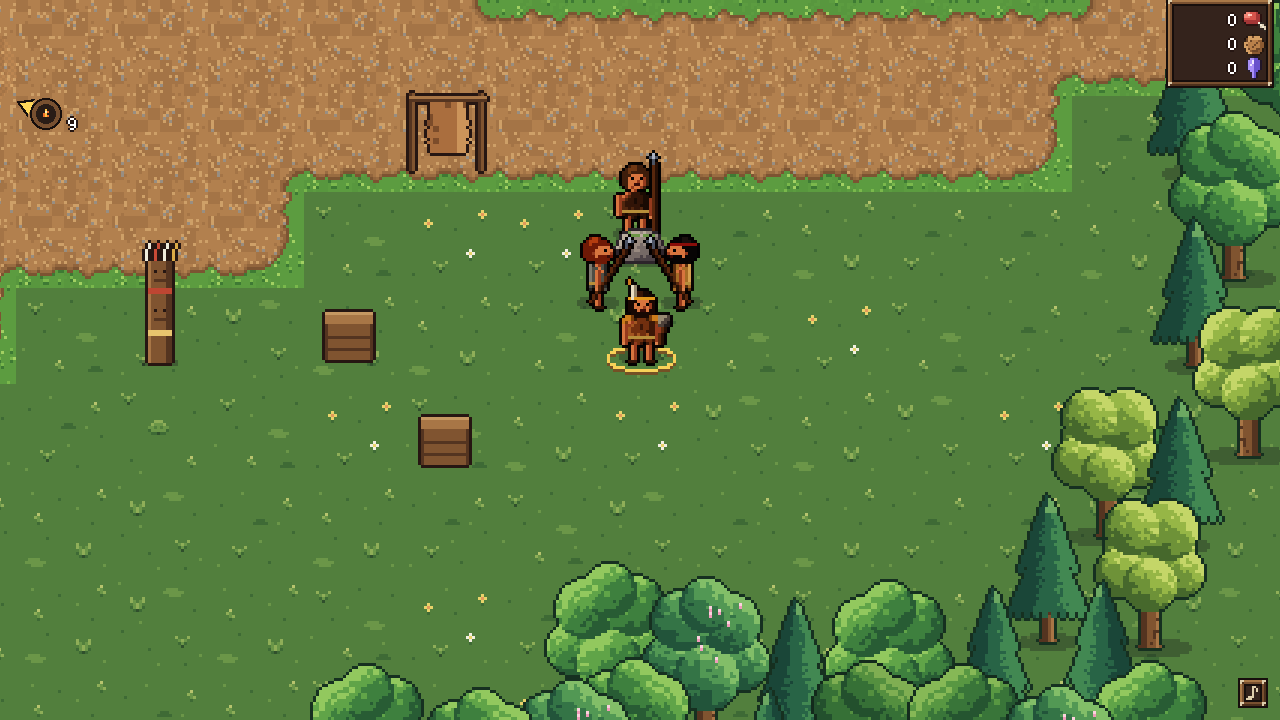
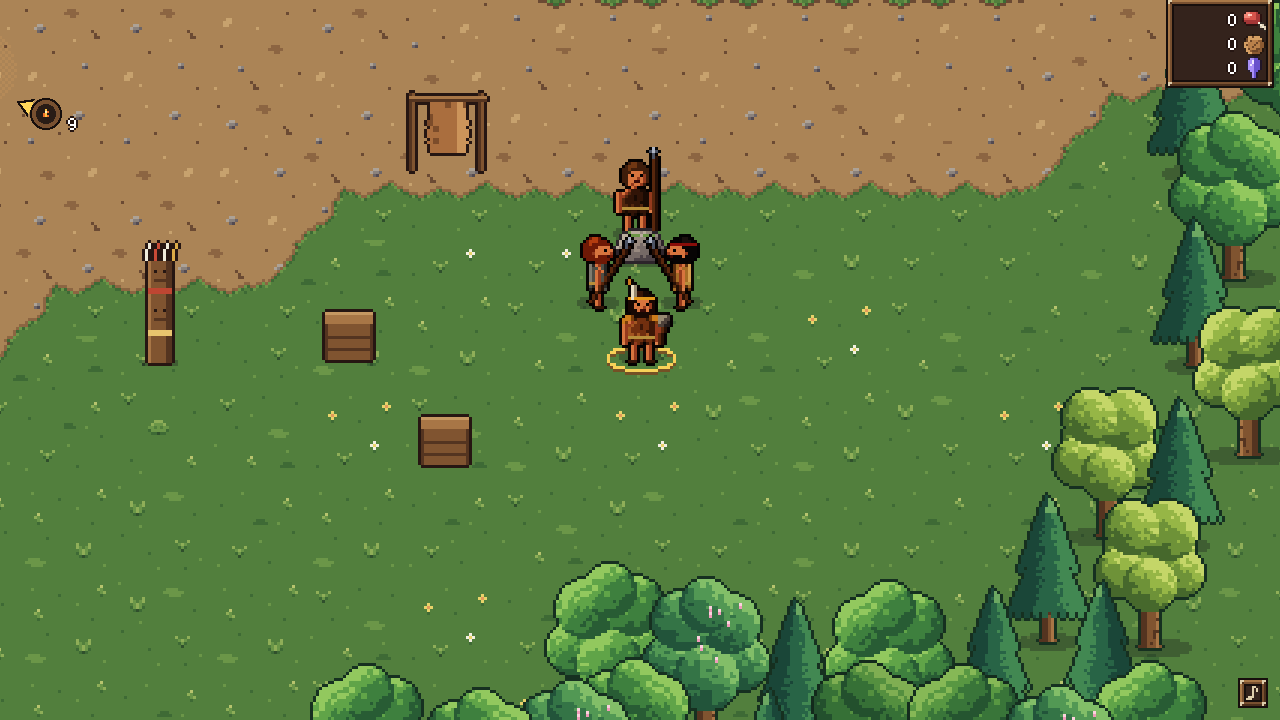
Voie C, étape 2 : terre sur herbe en grille double
- dirt_fill.png : trois remplissages de terre placés à la main.
- dirt_on_grass.png : 16 tuiles en grille double, bords ondulés tracés à
  la main, coins arrondis, frange d'ombre ; couleurs contrôlées.
- Zone témoin : chemins et camp en terre, transitions à chaque sommet
  herbe / terre (eau et pont réservés à l'étape 3).

Changed region(s): [[0.0, 0.0, 0.9062, 0.55], [0.9375, 0.1222, 0.9688, 0.1528]]

diff --git a/docs/WORLD_ART_PLAN.md b/docs/WORLD_ART_PLAN.md
@@ -195,3 +195,30 @@ L'étape 1 ne change que l'herbe (prairie et sol des forêts compris) ; le reste
 - Les touffes et les fleurs se lisent au zoom proche, sans grille visible.
 - La densité reste un peu régulière : 3 ou 4 éléments par tuile. À ajuster si tu le souhaites, avec plus de tuiles presque vides.
 - **Raccords encore visibles, attendus** : un liseré vert vif borde les chemins et la rivière. Il vient des anciennes tuiles de chemin et d'eau, qui contiennent l'ancien vert, et disparaîtra avec les étapes 2 (terre sur herbe) et 3 (eau sur herbe). La bordure de la zone témoin reste visible aussi.
+
+## 11. Voie C, étape 2 : terre sur herbe (23/10/2026, en attente de validation)
+
+**Livrables** (dessinés dans `tools/draw_tiles.gd`)
+- `assets/art/tiles/dirt_fill.png` : 3 remplissages de terre, avec cailloux éclairés, terre tassée, terre sèche et fissures, placés à la main.
+- `assets/art/tiles/dirt_on_grass.png` : les 16 tuiles « terre sur herbe » en grille double, en planche 4 × 4 selon la fiche.
+  - Le bord suit deux lignes ondulées tracées à la main (décalages pixel par pixel), qui coupent chaque côté à 16 px pour se raccorder.
+  - Les coins sont arrondis : le terrain est pondéré entre les 4 coins, de sorte que les coins saillants et rentrants s'adoucissent tandis que les bords entre deux coins pareils restent droits.
+  - Frange : la terre fonce d'un ton contre l'herbe, et de deux sous un bord d'herbe situé au-dessus (ombre). L'herbe s'assombrit le long du bord, avec quelques pointes claires.
+- Les couleurs sont contrôlées contre la palette, et l'herbe de l'étape 1 est inchangée au pixel près.
+
+**Dans le jeu** (zone témoin, rendu TUILES INCR-AGE)
+- Les chemins et le sol du camp sont en terre.
+- Une tuile de transition est posée à chaque sommet où se croisent herbe et terre.
+- Les sommets qui touchent l'eau ou le pont sont laissés à l'étape 3.
+- 60 FPS.
+
+**Captures** : `incr_vue_large.png`, `incr_proche.png`, `incr_chemin.png` dans `docs/art/zone_temoin/`.
+
+**Constat**
+- Les chemins deviennent organiques : coins arrondis, diagonales lues comme des diagonales et non plus comme des escaliers.
+- Le liseré vert vif d'origine a disparu le long des chemins.
+- Il reste à traiter :
+  - les berges de la rivière, encore dans l'ancien rendu (étape 3) ;
+  - des bouts de chemin carrés aux abords du pont, dont les sommets sont laissés à l'étape 3 ;
+  - la bordure de la zone témoin.
+- La même ondulation se répète le long des bords droits, toutes les 32 px. Elle est discrète ; on pourra ajouter une seconde série de tuiles de bord si elle se remarque.

diff --git a/PROGRESS.md b/PROGRESS.md
@@ -1,6 +1,6 @@
 # INCR-AGE — Suivi du projet
 
-**État : voie C, étape 1 (palette et herbe) validée et publiée. En cours : étape 2 (terre sur herbe en grille double, 3 remplissages de terre). F2 fait défiler nos tuiles, le rendu original et l'essai LPC dans la zone témoin. Audio terminé et validé.**
+**État : voie C, étape 2 (terre sur herbe en grille double, 3 remplissages de terre) faite, en commit local, en attente de validation (non poussée). Étape 1 validée. F2 fait défiler nos tuiles, le rendu original et l'essai LPC dans la zone témoin. Audio terminé et validé.**
 **Validé : phases 1, 2 (lots A et B), 3 (lots 3A, 3B, 3C) — tags `phase-1`, `phase-2a`, `phase-2b`, `phase-3a`, `phase-3b`, `phase-3c`. Plans : `docs/PHASE_2_PLAN.md`, `docs/PHASE_3_PLAN.md`.**
 Titre du jeu non choisi : « INCR-AGE » est le nom du dossier, pas un titre.
 
@@ -243,6 +243,10 @@ Voir les priorités 2 et 3 du plan artistique.
 
 ## En cours
 
+- **Voie C, étape 2 : terre sur herbe** (section 11 de `docs/WORLD_ART_PLAN.md`), en attente de validation :
+  - `dirt_fill.png` (3 remplissages) et `dirt_on_grass.png` (16 tuiles en grille double, coins arrondis, frange d'ombre), dessinés dans `tools/draw_tiles.gd`, couleurs contrôlées contre la palette ;
+  - zone témoin : chemins et sol du camp en terre, une transition à chaque sommet herbe/terre ; sommets au contact de l'eau et du pont laissés à l'étape 3 ; 60 FPS ;
+  - le liseré vert d'origine a disparu le long des chemins ; restent les berges (étape 3) et des bouts de chemin carrés aux abords du pont.
 - **Voie C, étape 1 : palette et herbe** (section 10 de `docs/WORLD_ART_PLAN.md`), validée le 23/10/2026 et publiée :
   - `assets/art/tiles/palette.gpl` (44 couleurs) ; `assets/art/tiles/grass_fill.png`, 6 remplissages dessinés pixel par pixel dans `tools/draw_tiles.gd` (motifs écrits point par point, placés à la main, couleurs contrôlées contre la palette) ;
   - zone témoin : F2 fait défiler TUILES INCR-AGE (au lancement), RENDU ORIGINAL et ESSAI LPC, avec un bandeau ; `-- --zone-temoin=off`, `=lpc` ou `=incr` au lancement ;

diff --git a/docs/TILESET_SPEC.md b/docs/TILESET_SPEC.md
@@ -99,7 +99,7 @@ La tuile d'indice `n` (somme des coins couverts par le terrain du dessus) se pla
 
 **Règles de dessin des bords**
 - Le bord ne suit jamais le milieu exact de la tuile : il ondule de ± 3 à 5 px.
-- Il doit pourtant **raccorder** exactement d'une tuile à l'autre. Les points d'entrée sur chaque côté sont fixes, à 10 et 22 px.
+- Il doit pourtant **raccorder** exactement d'une tuile à l'autre : il coupe chaque côté de la tuile en son milieu, à 16 px (rectifié à l'étape 2, où l'on a vu que c'est le point de raccord naturel de la grille double).
 - Une frange de 2 à 3 px de transition : touffes d'herbe qui débordent, cailloux sur le bord des chemins.
 
 **Paires nécessaires**
